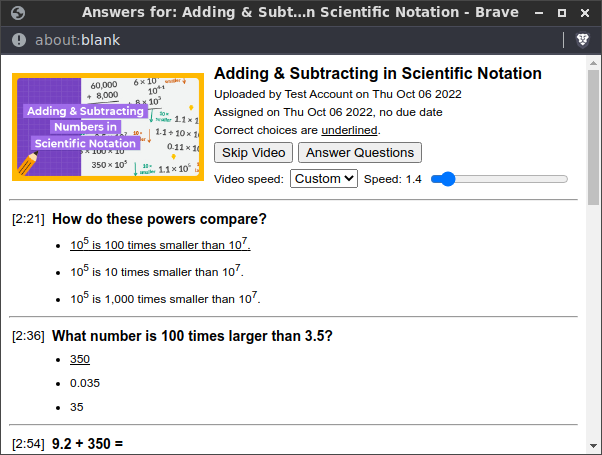
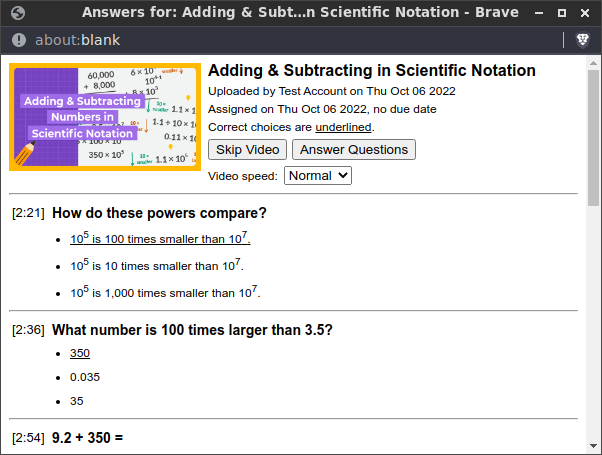
minor changes to the popup html

Changed region(s): [[0.0, 0.1231, 0.9568, 1.0]]

diff --git a/script.js b/script.js
@@ -95,38 +95,36 @@ function openPopup(assignment) {
       });
     </script>
     <title>Answers for: ${media.title}</title>
-  <table id="header_table">
-    <tr>
-      <td>
-        <img src="${thumbnail}" height="108px">
-      </td>
-      <td id="title_div">
-        <p style="font-size: 16px"><b>${media.title}</b></h2>
-        <p style="font-size: 12px">Uploaded by ${media.user.name} on ${date.toDateString()}</p>
-        <p style="font-size: 12px">Assigned on ${assigned_date.toDateString()}, ${deadline_text}</p>
-        <p style="font-size: 12px">Correct choices are <u>underlined</u>.</p>
-        <input id="skipper" type="button" value="Skip Video" onclick="skip_video();" disabled/>
-        <input id="answers_button" type="button" value="Answer Questions" onclick="answer_questions();" disabled/>
-        <br>
-        <div id="speed_container">
-          <label style="font-size: 12px" for="speed_dropdown">Video speed:</label>
-          <select name="speed_dropdown" id="speed_dropdown" onchange="video_speed()">
-            <option value="0.25">0.25</option>
-            <option value="0.5">0.5</option>
-            <option value="0.75">0.75</option>
-            <option value="1" selected>Normal</option>
-            <option value="1.25">1.25</option>
-            <option value="1.5">1.5</option>
-            <option value="1.75">1.75</option>
-            <option value="2">2</option>
-            <option value="-1">Custom</option>
-          </select>
-          <label id="custom_speed_label" style="font-size: 12px" for="custom_speed" hidden></label>
-          <input type="range" id="custom_speed" name="custom_speed" value="1" min="0.1" max="16" step="0.1" oninput="video_speed()" hidden>
-        </div>
-      </td>
-    </tr>
-  </table>
+  <div id="header_div">
+    <div>
+      <img src="${thumbnail}" height="108px">
+    </div>
+    <div id="title_div">
+      <p style="font-size: 16px"><b>${media.title}</b></h2>
+      <p style="font-size: 12px">Uploaded by ${media.user.name} on ${date.toDateString()}</p>
+      <p style="font-size: 12px">Assigned on ${assigned_date.toDateString()}, ${deadline_text}</p>
+      <p style="font-size: 12px">Correct choices are <u>underlined</u>.</p>
+      <input id="skipper" type="button" value="Skip Video" onclick="skip_video();" disabled/>
+      <input id="answers_button" type="button" value="Answer Questions" onclick="answer_questions();" disabled/>
+      <br>
+      <div id="speed_container">
+        <label style="font-size: 12px" for="speed_dropdown">Video speed:</label>
+        <select name="speed_dropdown" id="speed_dropdown" onchange="video_speed()">
+          <option value="0.25">0.25</option>
+          <option value="0.5">0.5</option>
+          <option value="0.75">0.75</option>
+          <option value="1" selected>Normal</option>
+          <option value="1.25">1.25</option>
+          <option value="1.5">1.5</option>
+          <option value="1.75">1.75</option>
+          <option value="2">2</option>
+          <option value="-1">Custom</option>
+        </select>
+        <label id="custom_speed_label" style="font-size: 12px" for="custom_speed" hidden></label>
+        <input type="range" id="custom_speed" name="custom_speed" value="1" min="0.1" max="16" step="0.1" oninput="video_speed()" hidden>
+      </div>
+    </div>
+  </div>
   <hr>
   <div id="content"> 
     <p style="font-size: 12px" id="loading_text"></p>

diff --git a/index.html b/index.html
@@ -8,10 +8,10 @@
   <meta property="og:type" content="website">
   <meta property="og:title" content="Edpuzzle Answers Script">
   <meta property="og:url" content="https://edpuzzle.hs.vc/">
-  <meta property="og:image" content="https://edpuzzle.hs.vc/images/screenshot3.png">
+  <meta property="og:image" content="https://edpuzzle.hs.vc/images/screenshot4.png">
   <meta property="og:article:author" content="ading2210">
   <meta property="og:description" content="This bookmarklet can fetch the answers for the multiple choice questions on any Edpuzzle assignment. It can also skip the entire video, as well as automatically answer the questions and change the video speed. This project is also fully open source and licensed under the GNU GPLv3.">
-  <meta property="twitter:image" content="https://edpuzzle.hs.vc/images/screenshot3.png">
+  <meta property="twitter:image" content="https://edpuzzle.hs.vc/images/screenshot4.png">
   <meta property="twitter:card" content="summary_large_image">
   
   <title>Edpuzzle Answers Script</title>

diff --git a/popup.css b/popup.css
@@ -39,8 +39,11 @@ li {
   vertical-align: top;
   padding-left: 7px;
 }
-#header_table {
+#header_div {
   width: 100%;
+  display: flex;
+  align-items: flex-start;
+  flex-wrap: nowrap;
 }
 #custom_speed {
   padding: 0px;
